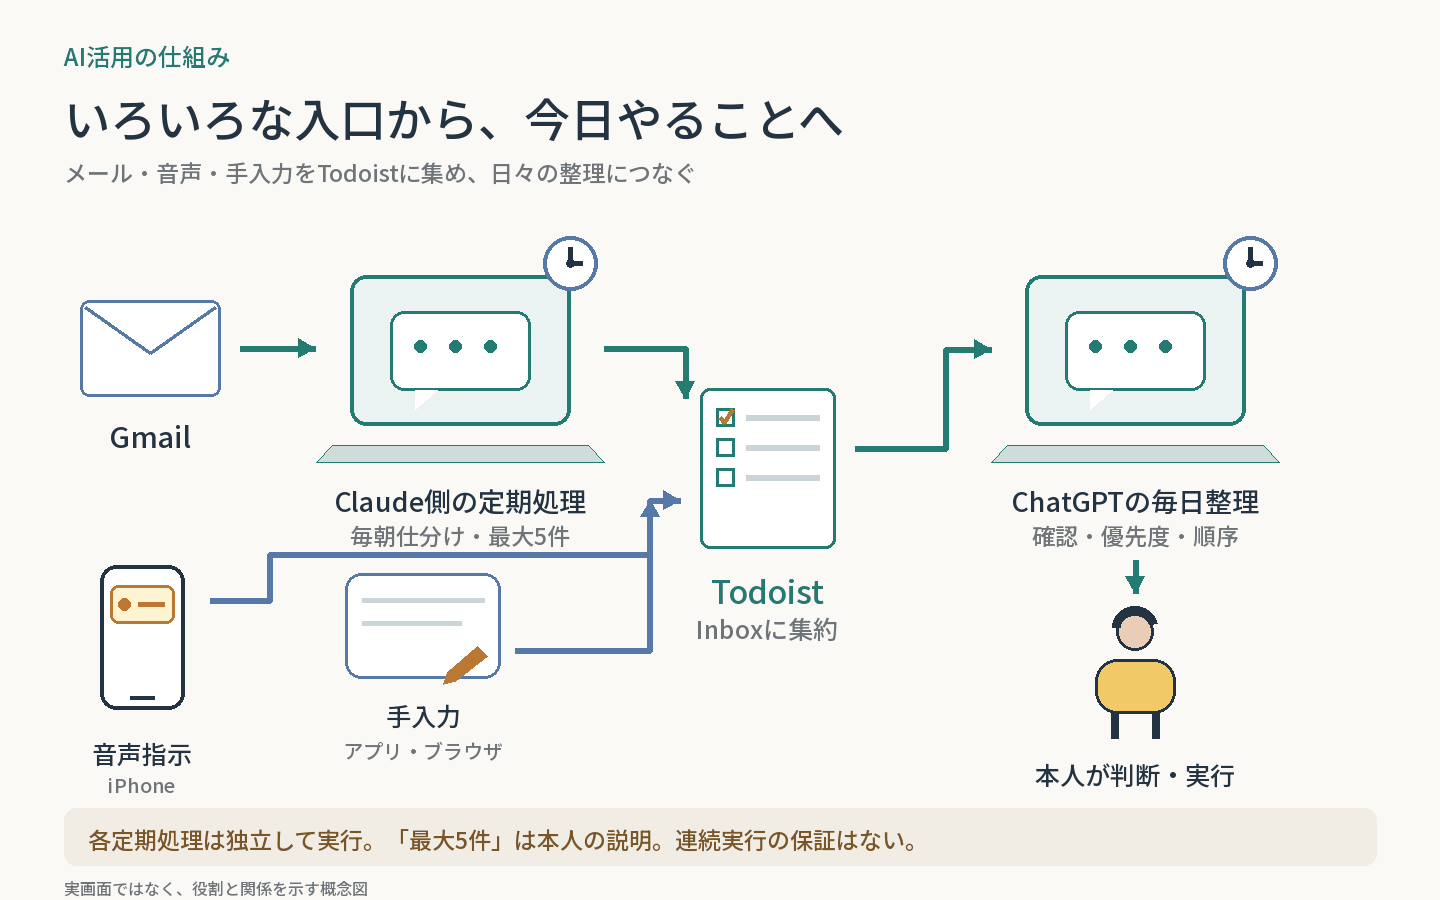
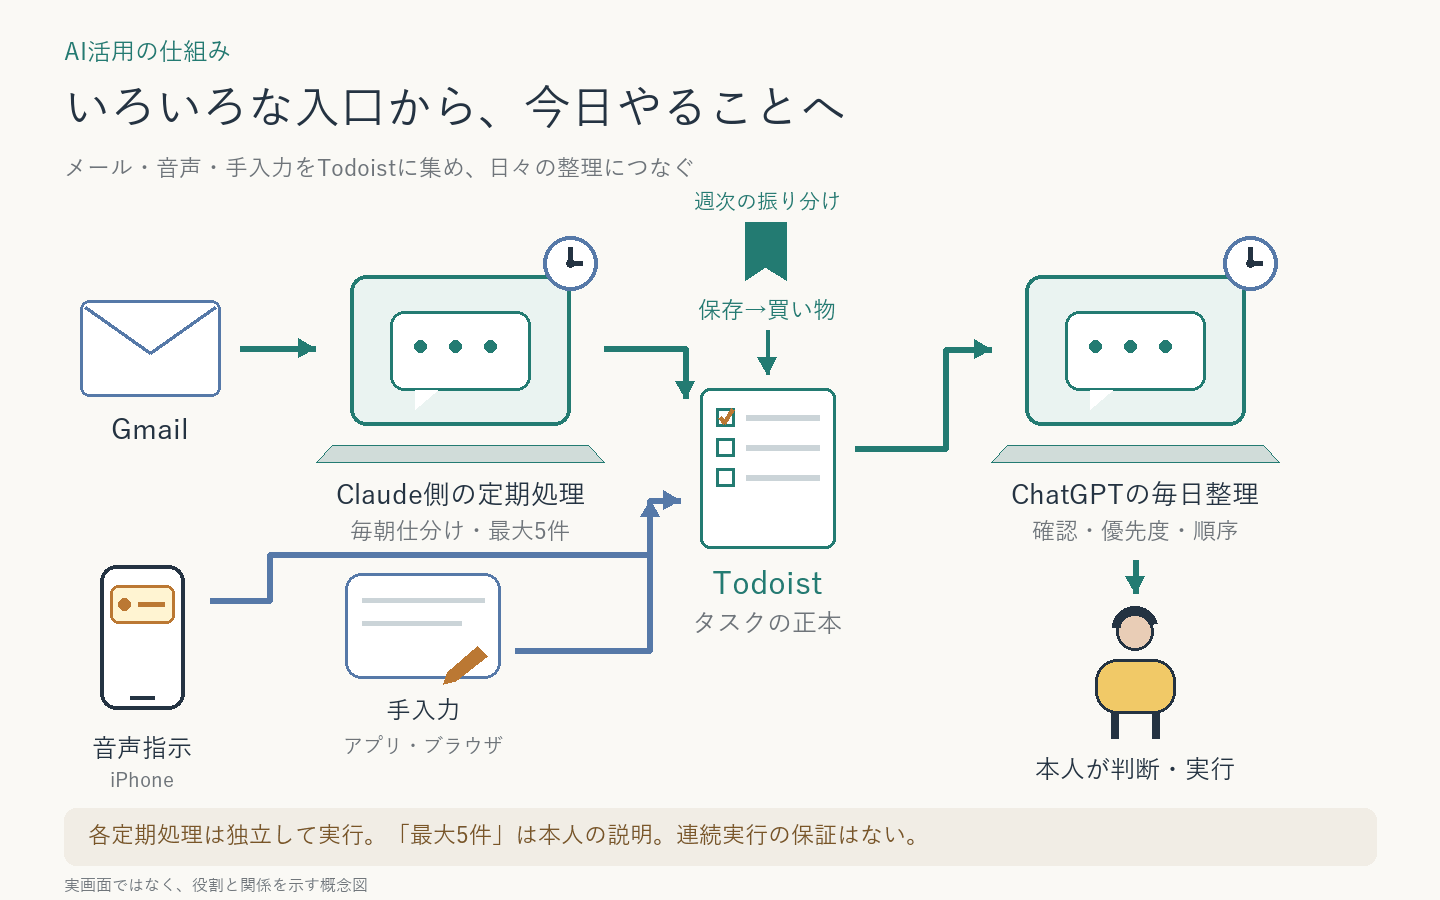
Connect bookmark organization to the task management overview

diff --git a/systems/daily-task-hub/figure.py b/systems/daily-task-hub/figure.py
@@ -14,9 +14,13 @@ f.clock(570, 263, 27)
 f.centered(460, 480, 'Claude側の定期処理', 27)
 f.centered(460, 518, '毎朝仕分け・最大5件', 23, f.GRAY)
 f.arrow([(604, 348), (685, 348), (685, 398)])
+f.d.polygon([(745,222),(786,222),(786,280),(765,267),(745,280)],fill=f.TEAL)
+f.centered(767,190,'週次の振り分け',21,f.TEAL)
+f.centered(767,297,'保存→買い物',23,f.TEAL)
+f.arrow([(767,330),(767,374)],f.TEAL,4)
 f.checklist(700, 388, 135, 160)
 f.centered(767, 566, 'Todoist', 32, f.TEAL)
-f.centered(767, 610, 'Inboxに集約', 25, f.GRAY)
+f.centered(767, 610, 'タスクの正本', 25, f.GRAY)
 f.arrow([(855, 448), (946, 448), (946, 349), (991, 349)])
 f.laptop(1025, 275)
 f.clock(1250, 263, 27)

diff --git a/systems/daily-task-hub/README.md b/systems/daily-task-hub/README.md
@@ -8,7 +8,8 @@
 | --- | --- |
 | メールを拾う | Claude側の朝の定期処理がGmailを仕分け。今回の本人説明では対応・確認事項を最大5件登録 |
 | 思いつきを入れる | 本人が音声指示、アプリ、ブラウザから入力。音声の中継アプリ・内部経路は未確認 |
-| 集約する | Todoistがタスク管理の正本。主な整理対象はInbox |
+| 保存から買い物へ | ChatGPTのブックマーク整理で、近々買うものを買い物プロジェクトへ。初回登録を確認、週次設定済み |
+| 集約する | Todoistがタスク管理の正本。主な整理対象はInbox。ブックマークからの買い物登録は別プロジェクトで、日次Inbox整理との自動連続実行は保証しない |
 | 整理する | ChatGPTの毎朝の処理が分類、親子関係、時間・委譲先、優先度、実施順を整理 |
 | 行動する | 本人が結果を確認して実行。タグ付けだけで別AIの作業が始まるわけではない |
 
@@ -18,6 +19,6 @@
 
 メールケースの記録では実行環境はClaude Codeのルーティン、今回の本人説明ではClaude.aiと呼ばれているため、全体図では「Claude側」とする。最大5件の上限と音声経路は本人説明に基づき、設定を直接検証していない。要確認メールの全件タスク化も未確認。
 
-関連する個別ケース：[メール仕分け](../../cases/daily-email-triage/) ／ [Todoist整理](../../cases/daily-todoist-triage/)
+関連する個別ケース：[メール仕分け](../../cases/daily-email-triage/) ／ [Todoist整理](../../cases/daily-todoist-triage/) ／ [ブックマーク整理](../../cases/bookmark-to-action/)
 
 [全体構成一覧](../README.md) ／ [トップ](../../README.md)
